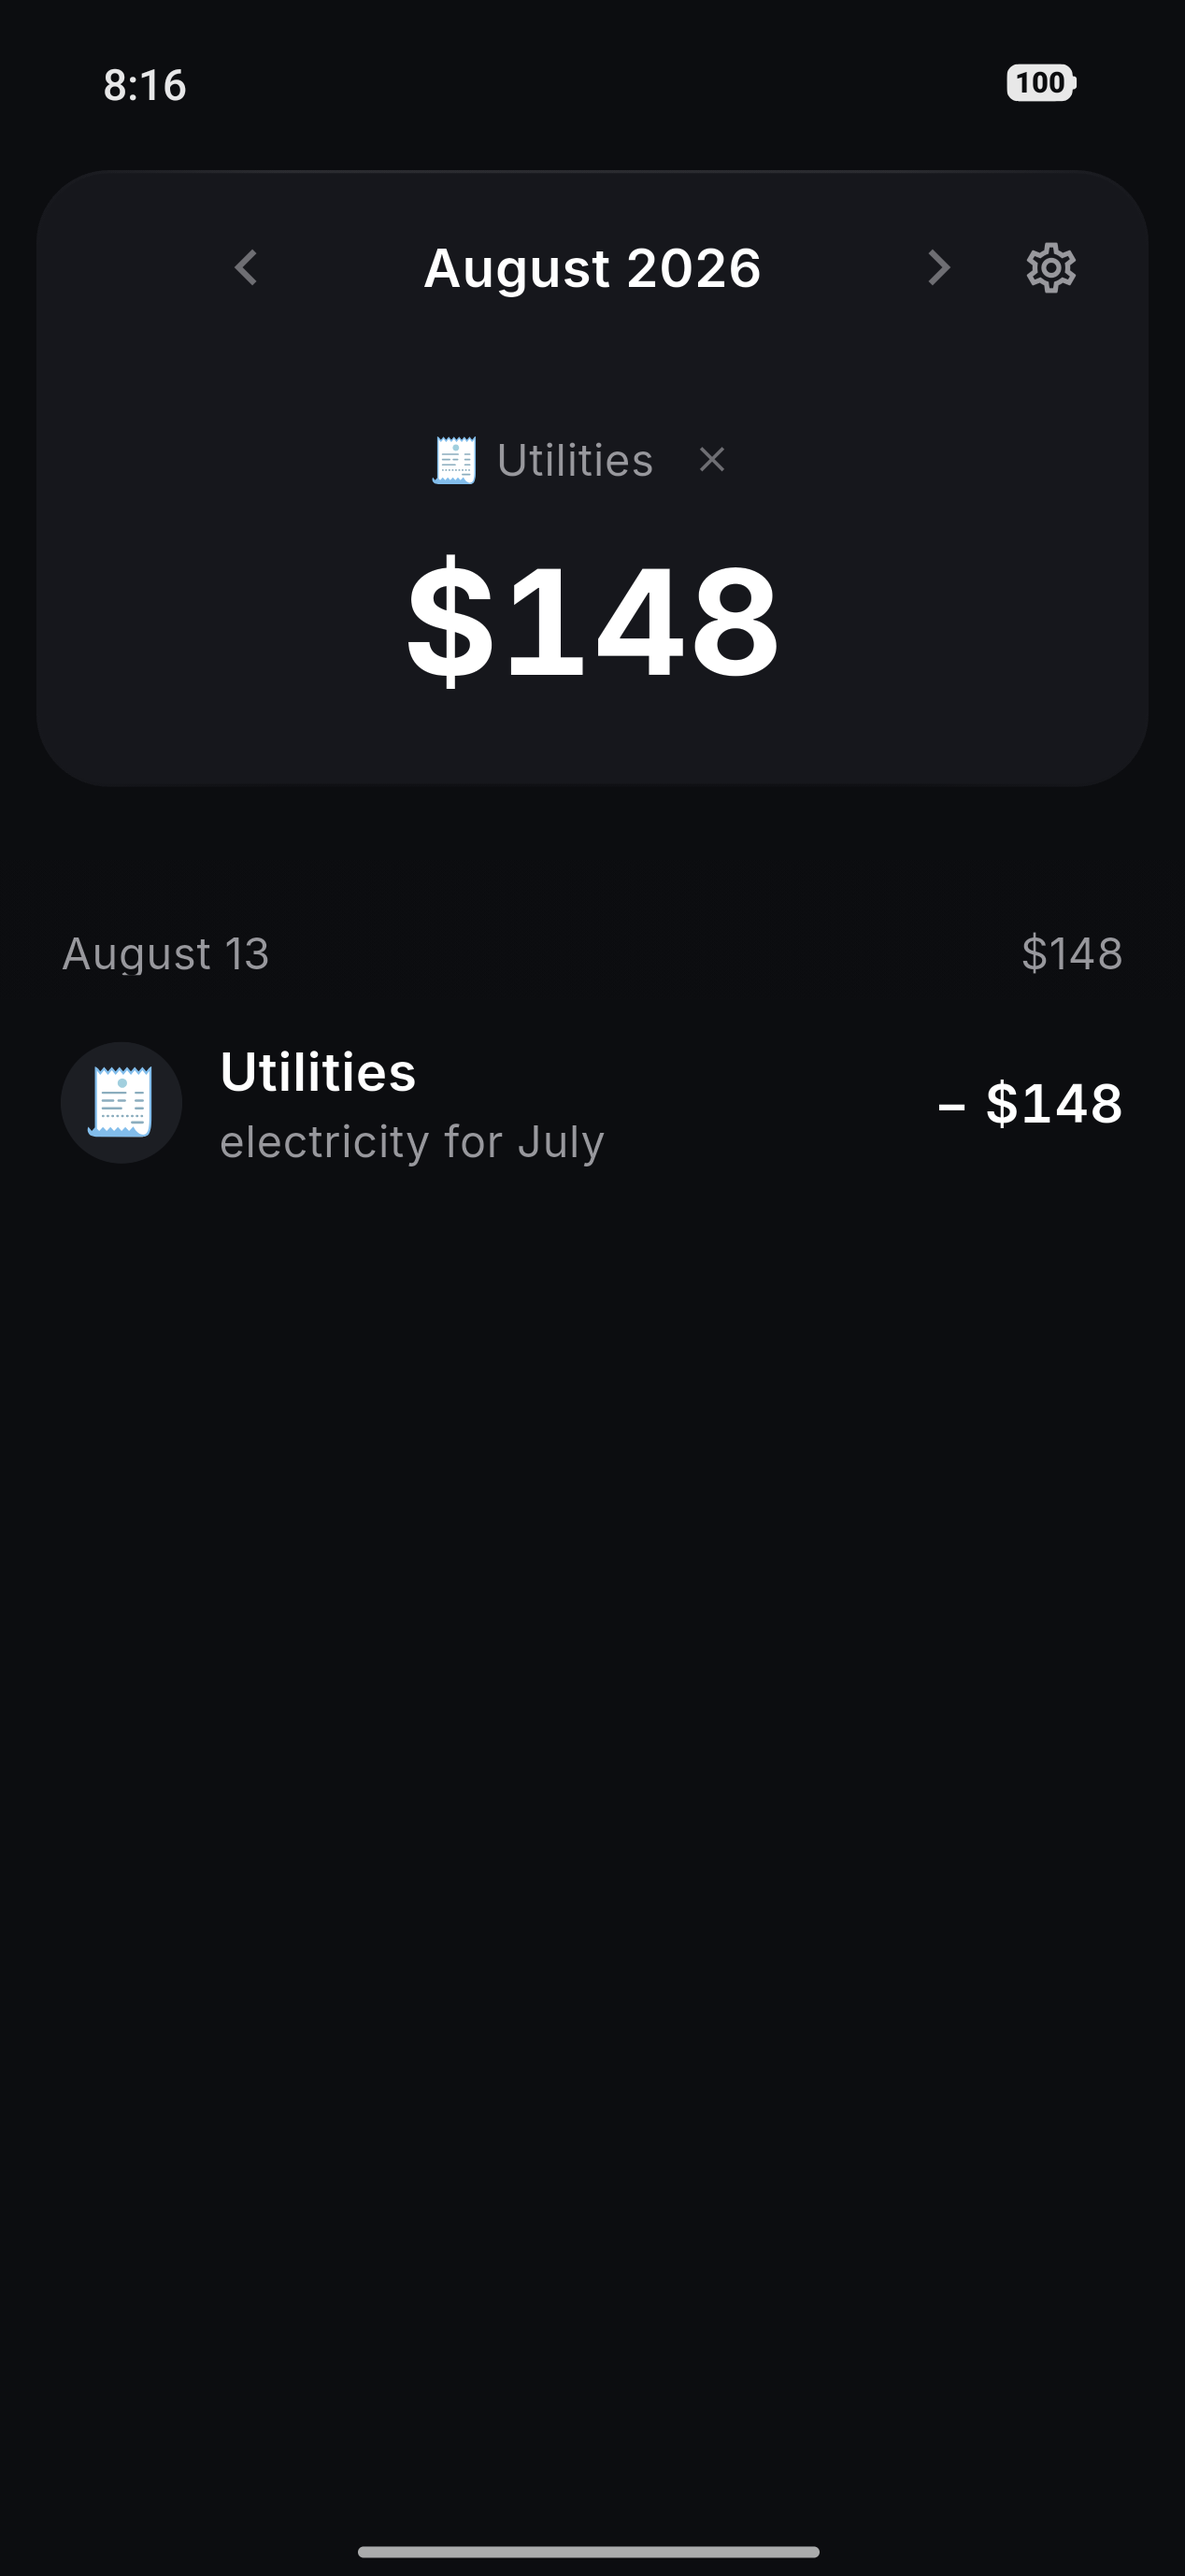
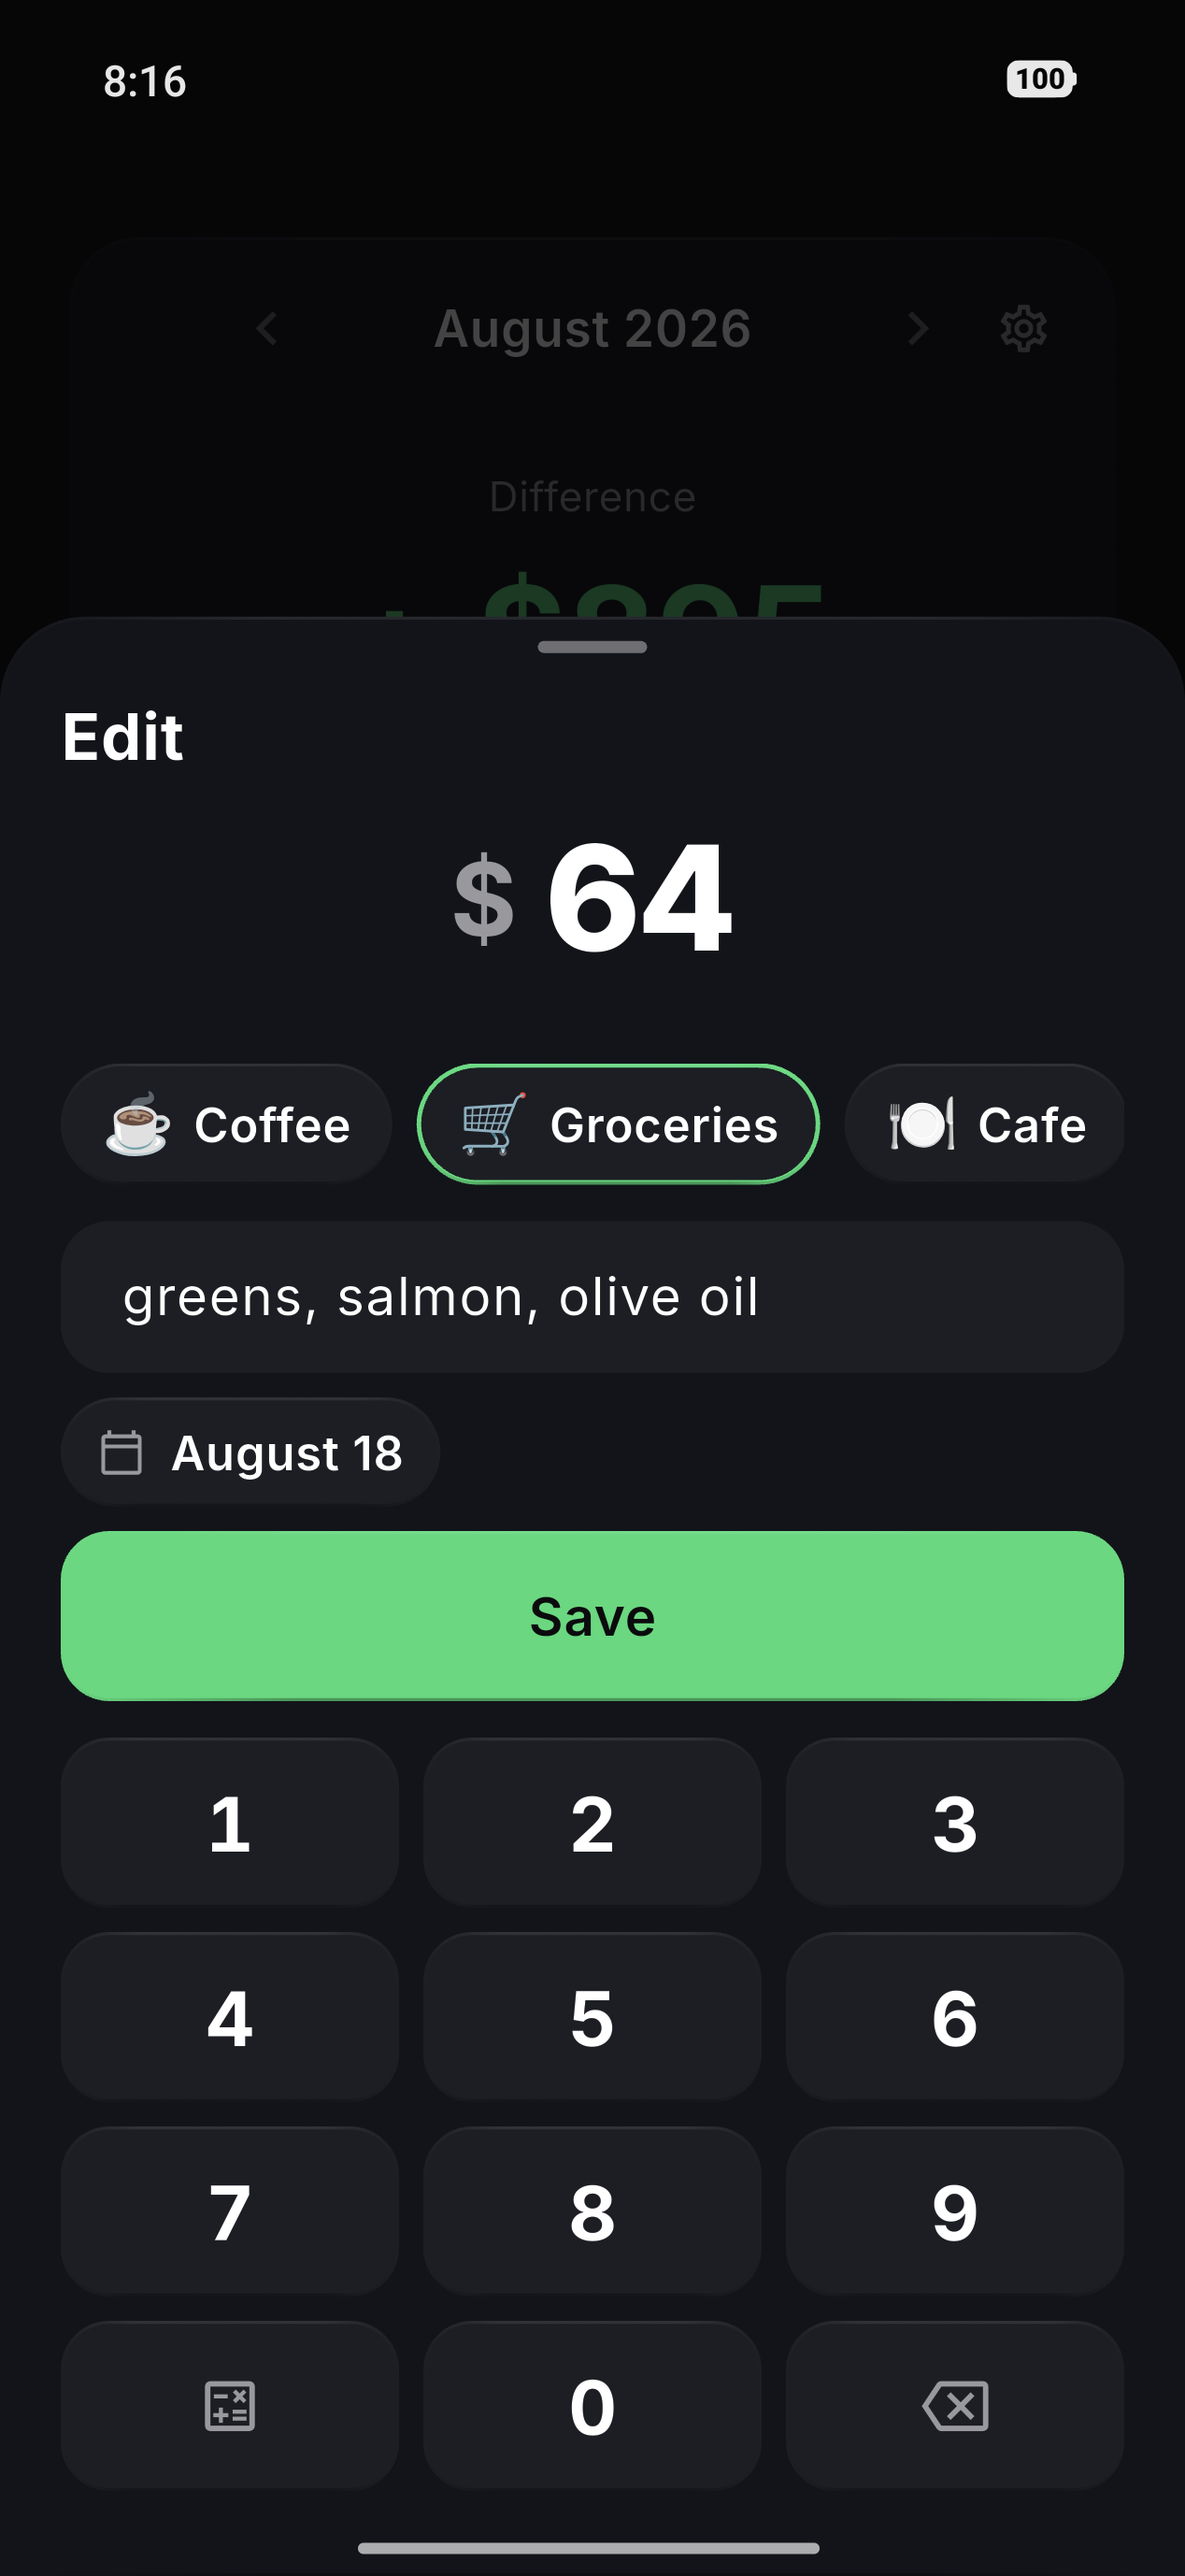
The English screenshot set is complete, ten shots and a sheet

diff --git a/marketing/README.md b/marketing/README.md
@@ -1,37 +1,45 @@
 # Матеріали для презентації
 
-Знімки екранів для сторінки Play і презентацій. Зняті з **демо-застосунку**
-`com.qvas.app.demo` — окремої збірки з власною базою. Робоча база догфудингу
-(`com.qvas.app`) при цьому не відкривається взагалі.
+Знімки екранів для сторінки Play і презентацій — два набори:
+
+- `screenshots/` — українська, гривня
+- `screenshots-en/` — англійська, долар
+
+Обидва зняті з **демо-застосунку** `com.qvas.app.demo`: окрема збірка з власною
+базою. Робоча база догфудингу (`com.qvas.app`) при цьому не відкривається взагалі.
 
 ## Що знято
 
 | Файл | Що показує |
 |---|---|
-| `01-input-empty.png` | Екран 1 у спокої: пад відкритий одразу, п'ять закріплених категорій |
-| `02-input-ready.png` | Сума й категорія зійшлись — «Зберегти» залите зеленим |
-| `03-history.png` | Екран 2: «Різниця», підсумки місяця, стрічка з нотатками |
-| `04-breakdown.png` | Розбивка витрат за категоріями (шторка з панелі підсумків) |
-| `05-filter-category.png` | Фільтр за категорією: тільки «Кафе» і сума по ній |
-| `06-quick-edit.png` | Шторка редагування запису: сума, категорія, нотатка, дата |
-| `07-categories.png` | Повний список категорій, закріплення й пошук |
-| `08-income.png` | Режим доходу: зелені цифри, власний набір категорій |
-| `09-settings.png` | Налаштування: валюта, мова, резервна копія, CSV |
-| `10-calculator.png` | Калькулятор просто на паді: `800 + 400` під сумою |
-| `contact-sheet.png` | Усі знімки в один ряд, для швидкого перегляду |
+| `01-input-empty` | Екран 1 у спокої: пад відкритий одразу, п'ять закріплених категорій |
+| `02-input-ready` | Сума й категорія зійшлись — «Зберегти» залите зеленим |
+| `03-history` | Екран 2: «Різниця», підсумки місяця, стрічка з нотатками |
+| `04-breakdown` | Розбивка витрат за категоріями (шторка з панелі підсумків) |
+| `05-quick-edit` | Шторка редагування: сума, категорія, нотатка, дата |
+| `06-filter-category` | Фільтр за категорією і сума по ній |
+| `07-income` | Режим доходу: зелені цифри, власний набір категорій |
+| `08-calculator` | Калькулятор просто на паді: `800 + 400` під сумою |
+| `09-settings` | Налаштування: валюта, мова, резервна копія, CSV |
+| `10-categories` | Повний список категорій, закріплення й пошук |
+| `contact-sheet` | Усі знімки в один ряд, для швидкого перегляду |
+
+В українському наборі нумерація трохи інша (там `05` — фільтр, `06` —
+редагування), решта збігається.
 
 ## Як перезняти
 
-Демо-дані описані в [`tool/seed_demo.py`](../tool/seed_demo.py) — суми, нотатки й
-дати задані списком, не випадкові. Дати рахуються від константи `TODAY`, тож
-для свіжого набору достатньо змінити її.
+Демо-дані описані в [`tool/seed_demo.py`](../tool/seed_demo.py) — два набори,
+`uk` і `en`. Суми, нотатки й дати задані списком, не випадкові; долари не є
+перекладом гривень, кожен набір має власний порядок сум. Дати рахуються від
+сьогоднішнього дня, тож верхня група стрічки завжди «Сьогодні».
 
 ```bash
 flutter build apk --debug --target-platform android-arm64
 adb install -r build/app/outputs/flutter-apk/app-debug.apk
 adb shell monkey -p com.qvas.app.demo -c android.intent.category.LAUNCHER 1
 adb exec-out run-as com.qvas.app.demo cat app_flutter/qvas.sqlite > qvas.sqlite
-python tool/seed_demo.py qvas.sqlite
+python tool/seed_demo.py qvas.sqlite en
 adb shell am force-stop com.qvas.app.demo
 adb push qvas.sqlite /data/local/tmp/
 adb shell "run-as com.qvas.app.demo sh -c 'rm -f app_flutter/qvas.sqlite-wal app_flutter/qvas.sqlite-shm; cp /data/local/tmp/qvas.sqlite app_flutter/qvas.sqlite'"
@@ -39,17 +47,25 @@ adb shell "run-as com.qvas.app.demo sh -c 'rm -f app_flutter/qvas.sqlite-wal app
 
 Далі — знімки: `adb exec-out screencap -p > файл.png`.
 
+Мова застосунку перемикається разом із даними, через `locale_override` у базі:
+руками в налаштуваннях нічого міняти не треба. Вбудовані категорії
+перекладаються самі за `name_key`, свої (Підписки / Subscriptions,
+Книги / Books) задані в наборі.
+
 **Чому саме debug-збірка.** `run-as` працює лише з debuggable-застосунком —
-це єдиний спосіб покласти готову базу без рута. Заразом `android/app/build.gradle.kts`
-дає debug-збіркам суфікс `.demo`, тож демо ніколи не переписує робочий застосунок.
+це єдиний спосіб покласти готову базу без рута. Заразом
+`android/app/build.gradle.kts` дає debug-збіркам суфікс `.demo`, тож демо
+ніколи не переписує робочий застосунок.
+
+**Якщо adb каже `more than one device`** — телефон видно і через IP, і через
+mDNS. Лікується явним вибором: `adb -s 192.168.0.101:37487 ...`.
 
 ## Що варто знати перед відправкою в Play
 
-- **Годинник у статусбарі — справжній час зйомки.** HyperOS ігнорує
-  `sysui_demo`, тому підмінити його на рівне 9:41 не вийшло. Якщо для сторінки
-  потрібен однаковий час на всіх знімках — статусбар доведеться замінити в
-  редакторі або обрізати.
+- **Годинник у статусбарі — час зйомки.** HyperOS ігнорує `sysui_demo`, тому
+  рівні 9:41 на всіх знімках не вийшли; заряд і сповіщення підмінити вдалось.
+  Демо-режим статусбара після зйомки вимкнено (`sysui_demo_allowed = 0`).
 - Знімки зроблені на POCO 2511FPC34G, 1268×2756. Play приймає такі як є;
-  для feature graphic (1024×500) матеріалу тут немає.
-- Мова знімків — українська. Для англомовної сторінки набір треба перезняти,
-  перемкнувши мову в налаштуваннях застосунку.
+  feature graphic (1024×500) тут немає.
+- Рамки пристрою в макетах — iPhone. Для презентації байдуже, для сторінки
+  Play варто взяти Android-рамку або обійтись без рамки.
